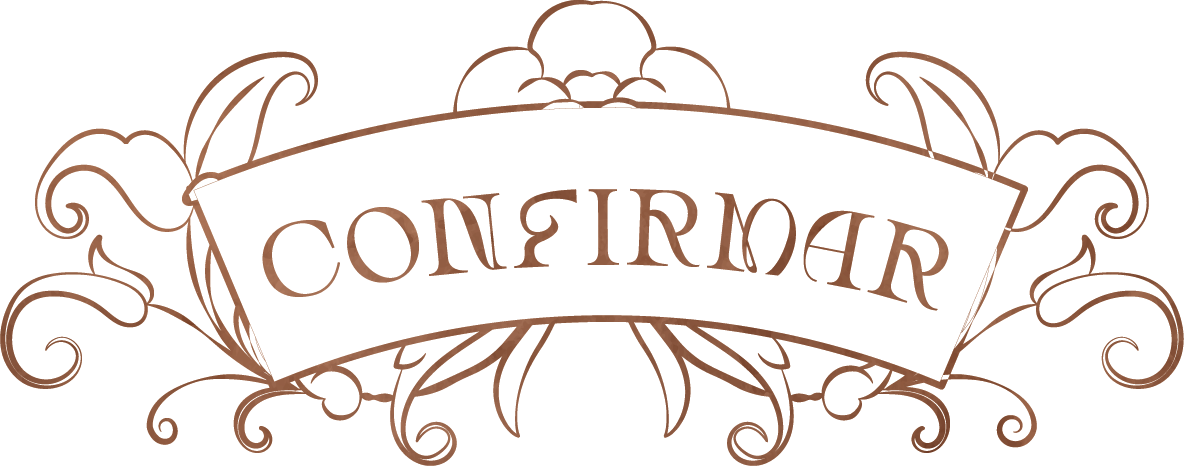
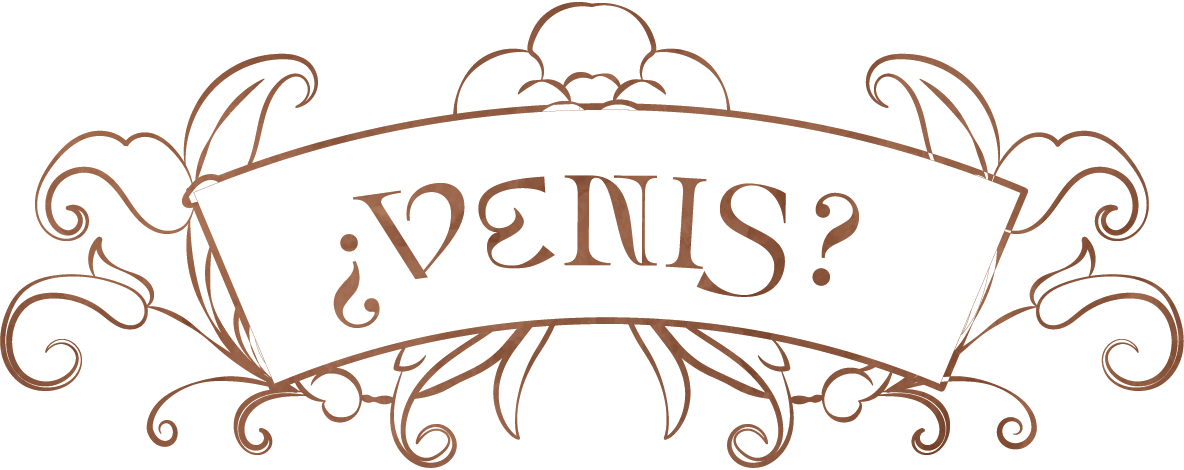
ajustes

diff --git a/scss/main.scss b/scss/main.scss
@@ -26,11 +26,13 @@
 
         .tamaño {
             width: 150px;
-            margin: 1rem;
+            padding: 1rem;
         }
     }
 
     .main {
+        max-width: 414px;
+
         .tamaño {
             width: 150px;
             margin: 1rem;
@@ -40,7 +42,7 @@
         .frase-cumple {
             margin: 2rem 0;
             color: #c34c62;
-            font-size: 25px;
+            font-size: 24px;
             line-height: 1.3;
             font-style: italic;
             font-weight: normal;
@@ -49,7 +51,7 @@
 
         h1 {
             text-align: center;
-            margin: 2rem 0;
+            margin: 20px 0 5px 0;
             color: #c34c62;
             font-size: 28px;
             line-height: 1.5;
@@ -61,7 +63,7 @@
             font-size: 70px;
             font-weight: lighter;
             text-align: center;
-            margin: 1rem 0;
+            margin: 0 0 10px 0;
             color: #815764;
         }
 
@@ -111,8 +113,12 @@
                 align-items: center;
                 text-align: center;
 
-                p {
-                    ;
+                h3 {
+                    text-align: center;
+                    color: #c34c62;
+                    font-size: 27px;
+                    font-weight: lighter;
+                    padding: 20px 0 20px 0;
                 }
 
                 .boton {
@@ -120,6 +126,10 @@
                     height: 50px;
                     background-color: #ebc6d4;
                     border-radius: 7px;
+                    font-family: "Copse", serif;
+                    font-size: 17px;
+                    font-weight: normal;
+                    color: #c34b61;
                     text-align: center;
                     border: none;
 
@@ -141,11 +151,24 @@
                 align-items: center;
                 text-align: center;
 
+                p {
+                    text-align: center;
+                    color: #c34c62;
+                    font-size: 23px;
+                    line-height: 1.5;
+                    font-weight: normal;
+                    padding: 20px 0 20px 0;
+                }
+
                 .boton {
                     width: 200px;
                     height: 50px;
                     background-color: #ebc6d4;
                     border-radius: 7px;
+                    font-family: "Copse", serif;
+                    font-size: 17px;
+                    font-weight: normal;
+                    color: #c34b61;
                     text-align: center;
                     border: none;
 
@@ -169,7 +192,12 @@
                 text-align: center;
 
                 p {
-                    padding: 10px;
+                    text-align: center;
+                    color: #c34c62;
+                    font-size: 23px;
+                    line-height: 1.3;
+                    font-weight: normal;
+                    padding: 20px 0 20px 0;
                 }
 
                 .boton {
@@ -177,17 +205,32 @@
                     height: 50px;
                     background-color: #ebc6d4;
                     border-radius: 7px;
+                    font-family: "Copse", serif;
+                    font-size: 17px;
+                    font-weight: normal;
+                    color: #c34b61;
                     text-align: center;
                     border: none;
 
                     &:hover {
-                        background-color: #ebc6d4;
+                        background-color: #eb84a5;
                     }
                 }
 
             }
 
 
+        }
+    }
+
+    footer {
+        h2 {
+            font-family: "imperial";
+            font-size: 70px;
+            font-weight: lighter;
+            text-align: center;
+            padding: 2rem 0 3rem 0;
+            color: #815764;
         }
     }
 }

diff --git a/CSS/style.css b/CSS/style.css
@@ -24,7 +24,10 @@
 }
 .body .header .tamaño {
   width: 150px;
-  margin: 1rem;
+  padding: 1rem;
+}
+.body .main {
+  max-width: 414px;
 }
 .body .main .tamaño {
   width: 150px;
@@ -33,14 +36,14 @@
 .body .main .frase-cumple {
   margin: 2rem 0;
   color: #c34c62;
-  font-size: 25px;
+  font-size: 24px;
   line-height: 1.3;
   font-style: italic;
   font-weight: normal;
 }
 .body .main h1 {
   text-align: center;
-  margin: 2rem 0;
+  margin: 20px 0 5px 0;
   color: #c34c62;
   font-size: 28px;
   line-height: 1.5;
@@ -51,7 +54,7 @@
   font-size: 70px;
   font-weight: lighter;
   text-align: center;
-  margin: 1rem 0;
+  margin: 0 0 10px 0;
   color: #815764;
 }
 .body .main #contador {
@@ -94,11 +97,22 @@
   align-items: center;
   text-align: center;
 }
+.body .main .main__div #ubicacion h3 {
+  text-align: center;
+  color: #c34c62;
+  font-size: 27px;
+  font-weight: lighter;
+  padding: 20px 0 20px 0;
+}
 .body .main .main__div #ubicacion .boton {
   width: 200px;
   height: 50px;
   background-color: #ebc6d4;
   border-radius: 7px;
+  font-family: "Copse", serif;
+  font-size: 17px;
+  font-weight: normal;
+  color: #c34b61;
   text-align: center;
   border: none;
 }
@@ -115,11 +129,23 @@
   align-items: center;
   text-align: center;
 }
+.body .main .main__div #confirmacion p {
+  text-align: center;
+  color: #c34c62;
+  font-size: 23px;
+  line-height: 1.5;
+  font-weight: normal;
+  padding: 20px 0 20px 0;
+}
 .body .main .main__div #confirmacion .boton {
   width: 200px;
   height: 50px;
   background-color: #ebc6d4;
   border-radius: 7px;
+  font-family: "Copse", serif;
+  font-size: 17px;
+  font-weight: normal;
+  color: #c34b61;
   text-align: center;
   border: none;
 }
@@ -137,18 +163,35 @@
   text-align: center;
 }
 .body .main .main__div #regalos p {
-  padding: 10px;
+  text-align: center;
+  color: #c34c62;
+  font-size: 23px;
+  line-height: 1.3;
+  font-weight: normal;
+  padding: 20px 0 20px 0;
 }
 .body .main .main__div #regalos .boton {
   width: 200px;
   height: 50px;
   background-color: #ebc6d4;
   border-radius: 7px;
+  font-family: "Copse", serif;
+  font-size: 17px;
+  font-weight: normal;
+  color: #c34b61;
   text-align: center;
   border: none;
 }
 .body .main .main__div #regalos .boton:hover {
-  background-color: #ebc6d4;
+  background-color: #eb84a5;
+}
+.body footer h2 {
+  font-family: "imperial";
+  font-size: 70px;
+  font-weight: lighter;
+  text-align: center;
+  padding: 2rem 0 3rem 0;
+  color: #815764;
 }
 
 /*# sourceMappingURL=style.css.map */

diff --git a/index.html b/index.html
@@ -18,7 +18,8 @@
     </header>
     <main class="main">
         <!-- frase -->
-        <p class="frase-cumple">Mi fiesta de quince años<br>se acerca y ¡no te la podés perder!<br>vení a celebrar este día<br>tan especial
+        <p class="frase-cumple">Mi fiesta de quince años<br>se acerca y ¡no te la podés perder!<br>vení a celebrar este
+            día<br>tan especial
             conmigo</p>
 
         <img class="tamaño" src="./recursos/paloma.png" alt="paloma">
@@ -56,26 +57,27 @@
         <div class="main__div">
             <section id="ubicacion">
                 <img class="tamaño-titulo" src="./recursos/ubicacion.png" alt="ubicacion">
-                <p>Avenida los Fundadores 1178</p>
+                <h3>Avenida los Fundadores 1178</h3>
                 <button class="boton">MAPA</button>
             </section>
 
             <section id="confirmacion">
-            <img class="tamaño-titulo" src="./recursos/confirmar.png" alt="confirmar">
+                <img class="tamaño-titulo" src="./recursos/confirmar.png" alt="confirmar">
+                <p>¡Espero contar con tu presencia! <br>
+                    Tu confirmación nos ayuda<br>muchísimo a organizar<br>ese día tan especial</p>
                 <button class="boton">IR A WHATSAPP</button>
             </section>
 
             <section id="regalos">
-             <img class="tamaño-titulo" src="./recursos/regalos.png" alt="regalos">
-                <h3>El regalo es opcional<br>¡la asistencia obligatoria!</h3>
-                <P>Pero si quieres tener un detalle conmigo podes enviarlo por medio de Mercado Pago</P>
+                <img class="tamaño-titulo" src="./recursos/regalos.png" alt="regalos">
+                <P>Tu presencia es el mejor regalo<br>para esta noche tan especial,<br>pero si querés tener un detalle conmigo<br>podes enviarlo por medio de<br>Mercado Pago</P>
                 <button class="boton">VER ALIAS</button>
             </section>
         </div>
 
     </main>
     <footer>
-        <!-- Te espero -->
+        <h2>¡Te espero!</h2>
     </footer>
     <script src="script.js"></script>
 </body>